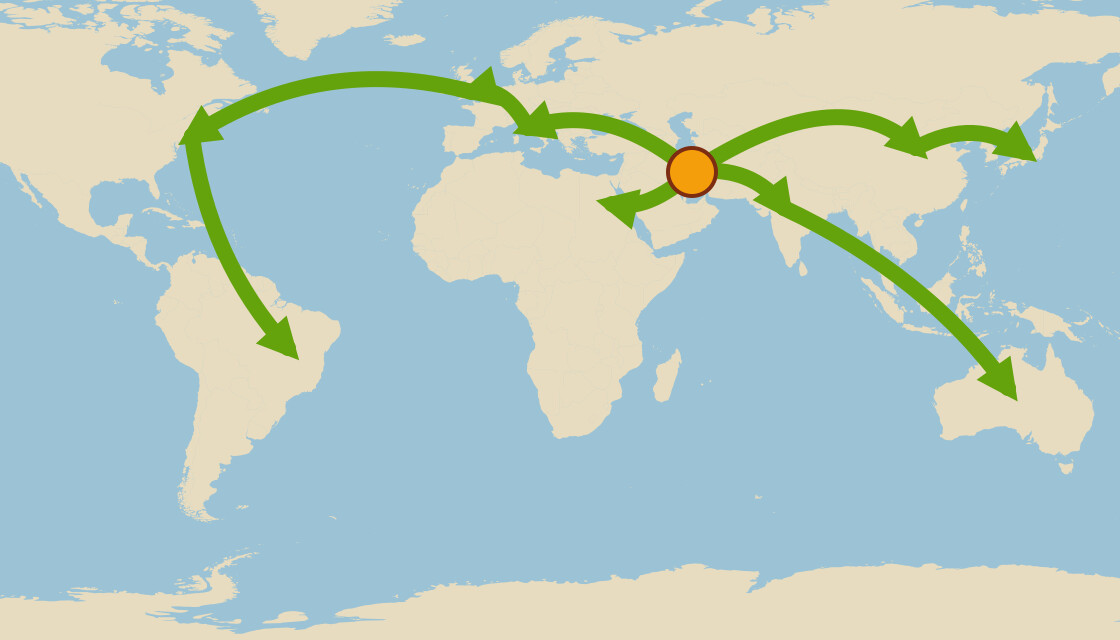
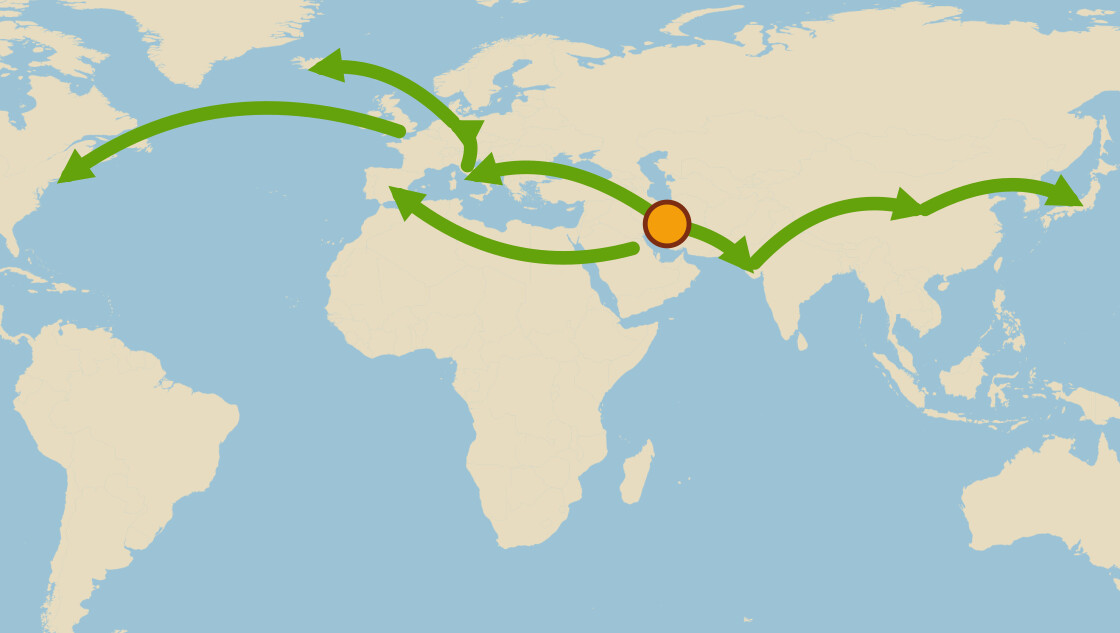
fix(backgammon): 地図の矢印を、Wikipedia「Tables game」にある伝わった道に合わせる（TODO-024）
Claude-Session: https://claude.ai/code/session_011sxjiiz6sNYDFKPdScEQs6

diff --git a/slides/backgammon.js b/slides/backgammon.js
@@ -178,7 +178,7 @@ const slideData = [
             return bgSlide(this, 'bg-worldmap.jpg', '古い世界地図（Hondius, 1630）', `
                         <div class="grid grid-cols-3 gap-[1.8cqw] items-end">
                             ${fig('bg-nard.jpg', 'ペルシャの写本の、盤を挟んでナルドを打つ人々', 'ペルシャの「ナルド」（15 世紀の絵）')}
-                            ${fig('bg-spread.jpg', '中東から世界各地へ矢印が伸びる世界地図', '中東から世界へ（イメージ）', 'object-center')}
+                            ${fig('bg-spread.jpg', '中東から世界各地へ矢印が伸びる世界地図', '中東から世界へ伝わった道（おおよそ）', 'object-center')}
                             ${fig('bg-nara.png', '盤を挟んで向かい合う二人の絵', '盤双六らしい盤を挟む二人（江戸時代ごろの絵）')}
                         </div>
                         <!-- 時間軸: 各図の真下に点、右端に矢じり -->

diff --git a/archives/agents/TODO-024/spread-sources.md b/archives/agents/TODO-024/spread-sources.md
@@ -1,0 +1,15 @@
+# 「歴史は古い」の地図の矢印の出典
+
+地図は Natural Earth の白地図（Commons「BlankMap-Equirectangular.svg」、CC0）。矢印は
+`spread.svg` に描いた。伝わった道は英語版 Wikipedia「Tables game」（2026-09-30 に取得）による。
+
+| 矢印 | 根拠（Tables game の記述） |
+|------|---------------------------|
+| 中東 → 古代ローマ | ローマの tabula と、ペルシャの nard（本文の歴史の節） |
+| アラブ世界 → スペイン | "tables games from their arrival in Spain or Italy from the Arabic world around the turn of the first millennium" |
+| ヨーロッパの中（ドイツ → アイスランド） | "Tables games were played in Germany in the 12th century, and had reached Iceland by the 13th century" |
+| イングランド → アメリカ | backgammon は 17 世紀のイングランドが最古の記録で、"By the 19th century ... spread abroad to Europe and America" |
+| 中東 → インド西部 → 中国 → 日本 | "Shuanglu came from western India to China during the Wei dynasty"、"In Japan, ban-sugoroku is thought to have been brought from China in the 6th century" |
+
+推測で描いたところ: 中東からインド西部への矢印（nard がペルシャとインドの間で語られる伝説から）と、
+各地の点の位置（国や地域のおおよその位置）。
